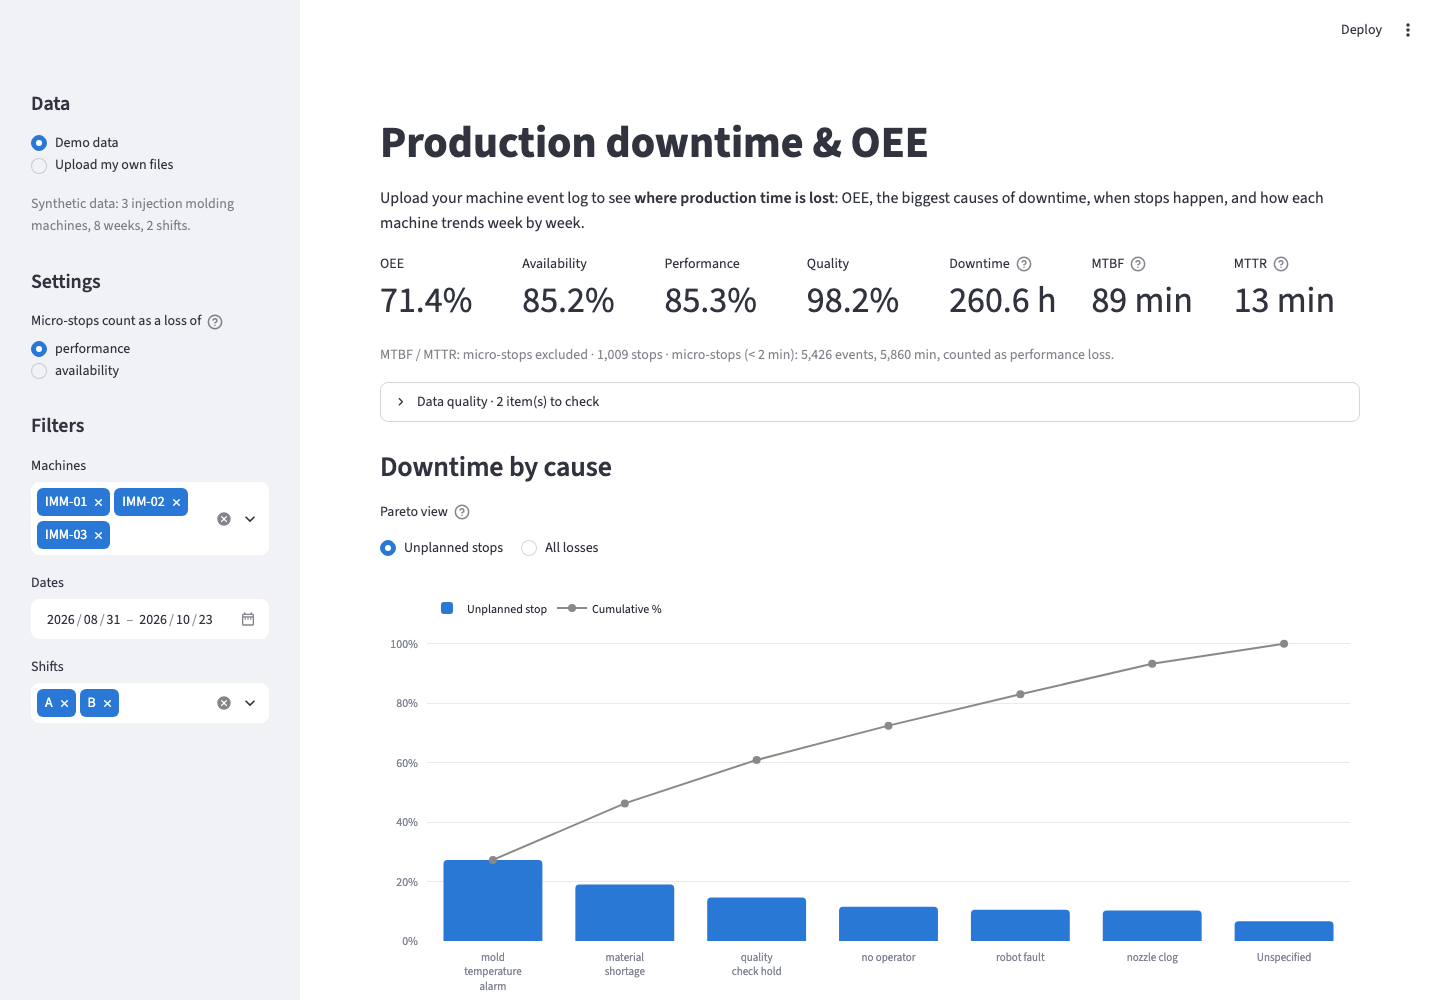
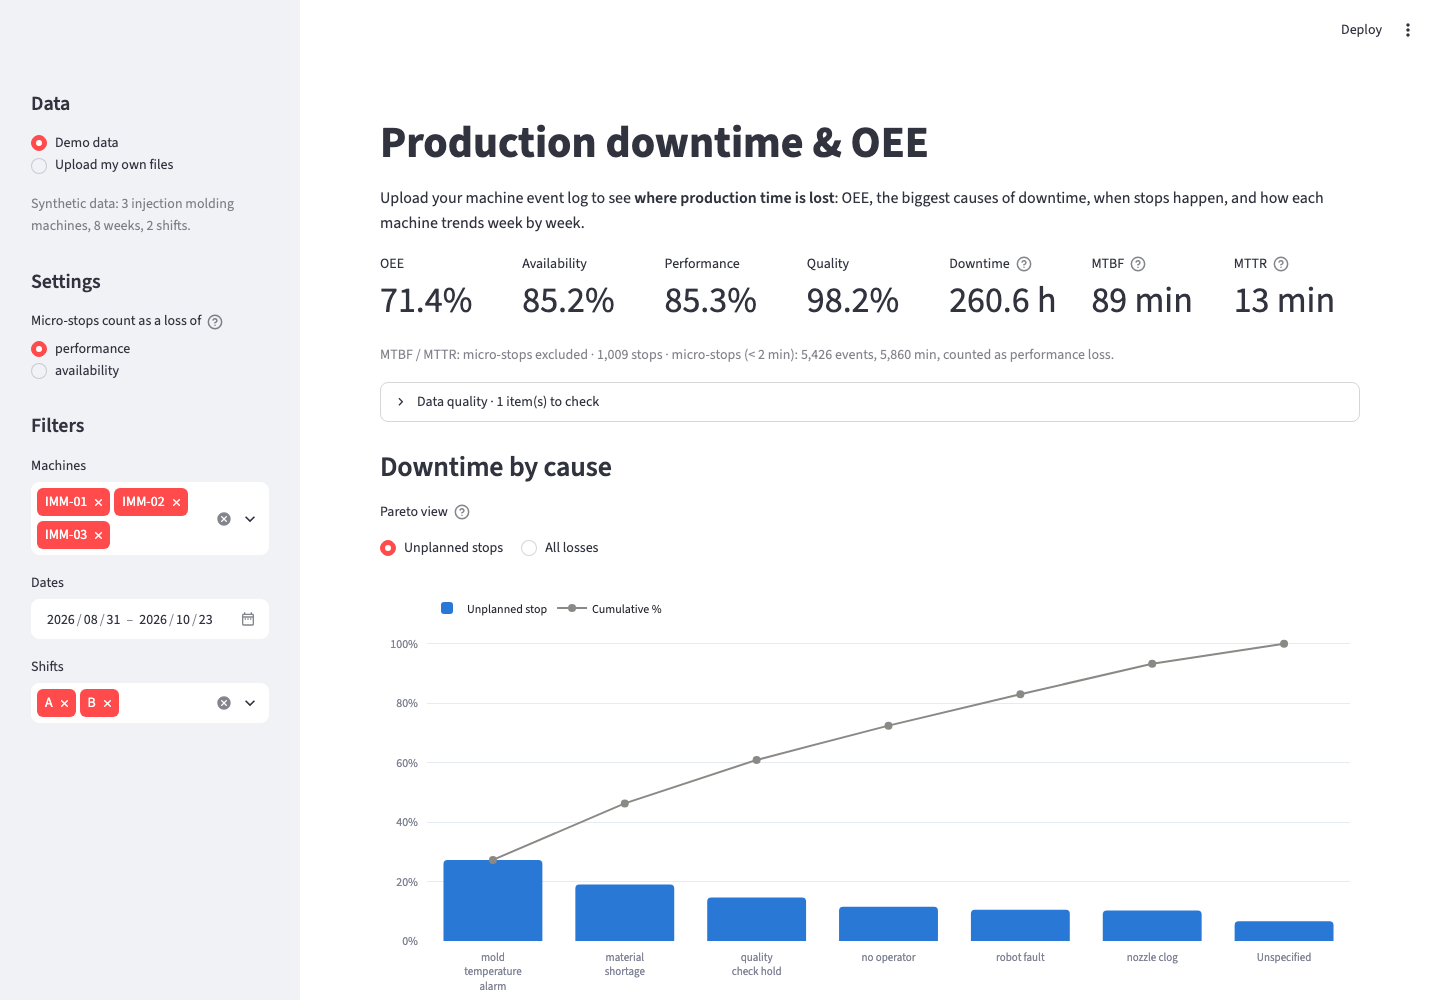
Show time outside shift hours as information, not a warning
Logged minutes outside the shift calendar are excluded on purpose, so
flagging them as a problem was misleading. DataQuality.rows() now has a
status column (warning / ok / info); "Outside shift hours ... ignored by
design" is info, and warnings remain only for stops without reason,
unlogged time, machine-days without events, Performance > 100% and
dropped rows. Dashboard, PDF and Excel use the new status; PDF text maps
dashes to Latin-1. Screenshots regenerated (the dashboard now shows one
item to check).

diff --git a/src/pdr/kpi.py b/src/pdr/kpi.py
@@ -391,7 +391,12 @@ class DataQuality:
         return 100 * self.unlogged_min / self.shift_min if self.shift_min else 0.0
 
     def rows(self) -> pd.DataFrame:
-        """One line per check, for display in the dashboard and the PDF."""
+        """One line per check, for display in the dashboard and the PDF.
+
+        status is "warning" or "ok" for checks that can point to bad data,
+        and "info" for facts that are expected by design: time logged
+        outside shift hours is simply not part of the analysis.
+        """
         checks = [
             ("Stops without reason code",
              f"{self.stops_without_reason} of {self.stops_total} "
@@ -400,8 +405,6 @@ class DataQuality:
             ("Unlogged shift time",
              f"{self.unlogged_min:,.0f} min ({self.unlogged_pct:.1f}% of shift time)",
              self.unlogged_min > 0),
-            ("Logged time outside shifts (ignored)",
-             f"{self.outside_shift_min:,.0f} min", self.outside_shift_min > 0),
             ("Machine-days without events",
              str(len(self.machine_days_without_events)),
              not self.machine_days_without_events.empty),
@@ -411,7 +414,12 @@ class DataQuality:
             ("Rows dropped while loading", str(len(self.dropped_rows)),
              not self.dropped_rows.empty),
         ]
-        return pd.DataFrame(checks, columns=["check", "value", "warning"])
+        rows = [(c, v, "warning" if w else "ok") for c, v, w in checks]
+        rows.append(("Outside shift hours",
+                     f"{self.outside_shift_min:,.0f} min — ignored by design", "info"))
+        table = pd.DataFrame(rows, columns=["check", "value", "status"])
+        table["warning"] = table["status"] == "warning"
+        return table
 
 
 def data_quality(analysis: Analysis) -> DataQuality:

diff --git a/src/pdr/report.py b/src/pdr/report.py
@@ -243,7 +243,8 @@ def _num(v, unit: str = "", digits: int = 0) -> str:
 
 def _latin1(text: str) -> str:
     """Core PDF fonts are Latin-1; replace anything else instead of failing."""
-    return str(text).encode("latin-1", "replace").decode("latin-1")
+    text = str(text).replace("\u2014", "-").replace("\u2013", "-")
+    return text.encode("latin-1", "replace").decode("latin-1")
 
 
 class _PDF(FPDF):
@@ -352,7 +353,7 @@ def render_pdf(report: WeeklyReport, source: str = "") -> bytes:
     _heading(pdf, "Data quality")
     pdf.set_font("Helvetica", size=8)
     items = [
-        f"[{'check' if r.warning else 'ok'}]  {r.check}: {r.value}"
+        f"[{'check' if r.status == 'warning' else r.status}]  {r.check}: {r.value}"
         for r in report.data_quality.itertuples()
     ]
     half = (len(items) + 1) // 2
@@ -448,7 +449,7 @@ def render_excel(analysis: Analysis) -> bytes:
                                         "mtbf_min", "mttr_min"]],
         "Micro-stops": micro["top_causes"],
         "Stops": stop_events(analysis, include_micro=True),
-        "Data quality": dq.rows(),
+        "Data quality": dq.rows().drop(columns="warning"),
         "Settings": pd.DataFrame([
             ("micro_stop_minutes", analysis.config.micro_stop_min),
             ("micro_stops_as", analysis.config.micro_stops_as),

diff --git a/app.py b/app.py
@@ -216,7 +216,9 @@ def data_quality_section(a: Analysis) -> None:
     rows = dq.rows()
     warnings = int(rows["warning"].sum())
     with st.expander(f"Data quality · {warnings} item(s) to check", expanded=False):
-        shown = rows.assign(status=rows["warning"].map({True: "⚠ check", False: "✅ ok"}))
+        shown = rows.assign(
+            status=rows["status"].map({"warning": "⚠ check", "ok": "✅ ok", "info": "ℹ info"})
+        )
         st.dataframe(shown[["status", "check", "value"]], hide_index=True, width="stretch")
         if not dq.machine_days_without_events.empty:
             st.markdown("**Machine-days without events** (not counted in KPIs)")

diff --git a/tests/test_kpi.py b/tests/test_kpi.py
@@ -276,6 +276,10 @@ def test_data_quality_rows(one_shift):
     assert rows.loc["Stops without reason code", "value"] == "1 of 3 (33.3%)"
     assert rows.loc["Stops without reason code", "warning"]
     assert not rows.loc["Rows dropped while loading", "warning"]
+    # Time outside shift hours is information, never a warning.
+    assert rows.loc["Outside shift hours", "status"] == "info"
+    assert not rows.loc["Outside shift hours", "warning"]
+    assert rows.loc["Outside shift hours", "value"] == "0 min — ignored by design"
 
 
 def test_unmatched_production_rows_are_reported():

diff --git a/README.md b/README.md
@@ -47,9 +47,10 @@ also upload your own files. Nothing is stored: files are processed in memory.
   *"IMM-02: mold temperature alarm = 57% of unplanned downtime (328 min)."*
 - **Excel workbook** with one sheet per KPI view: by machine, week, day and shift,
   both Pareto views, MTBF/MTTR, micro-stops, every stop, data quality, settings.
-- **Data quality checks**: stops without reason code, unlogged shift time, time
-  outside shifts, machine-days with no data, shifts with Performance above 100%,
-  rows that could not be used.
+- **Data quality checks**: stops without reason code, unlogged shift time,
+  machine-days with no data, shifts with Performance above 100%, rows that could
+  not be used. Time logged outside shift hours is shown for information: it is
+  ignored by design.
 - **Command line** for scheduled reports, using the same code as the dashboard.
 
 ## Use your own data
